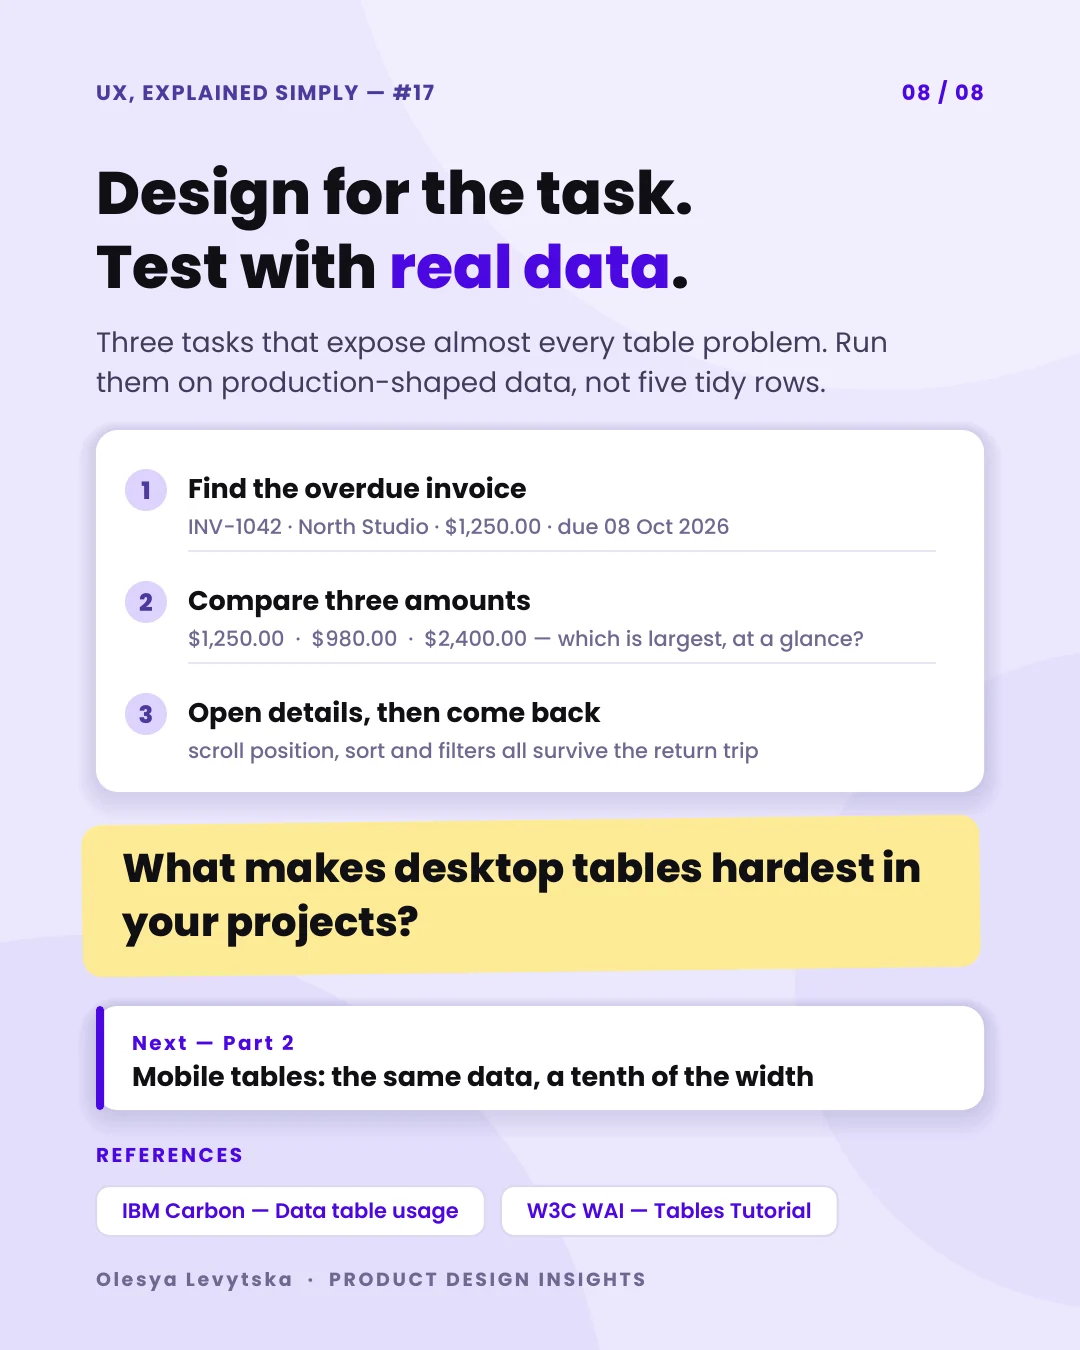
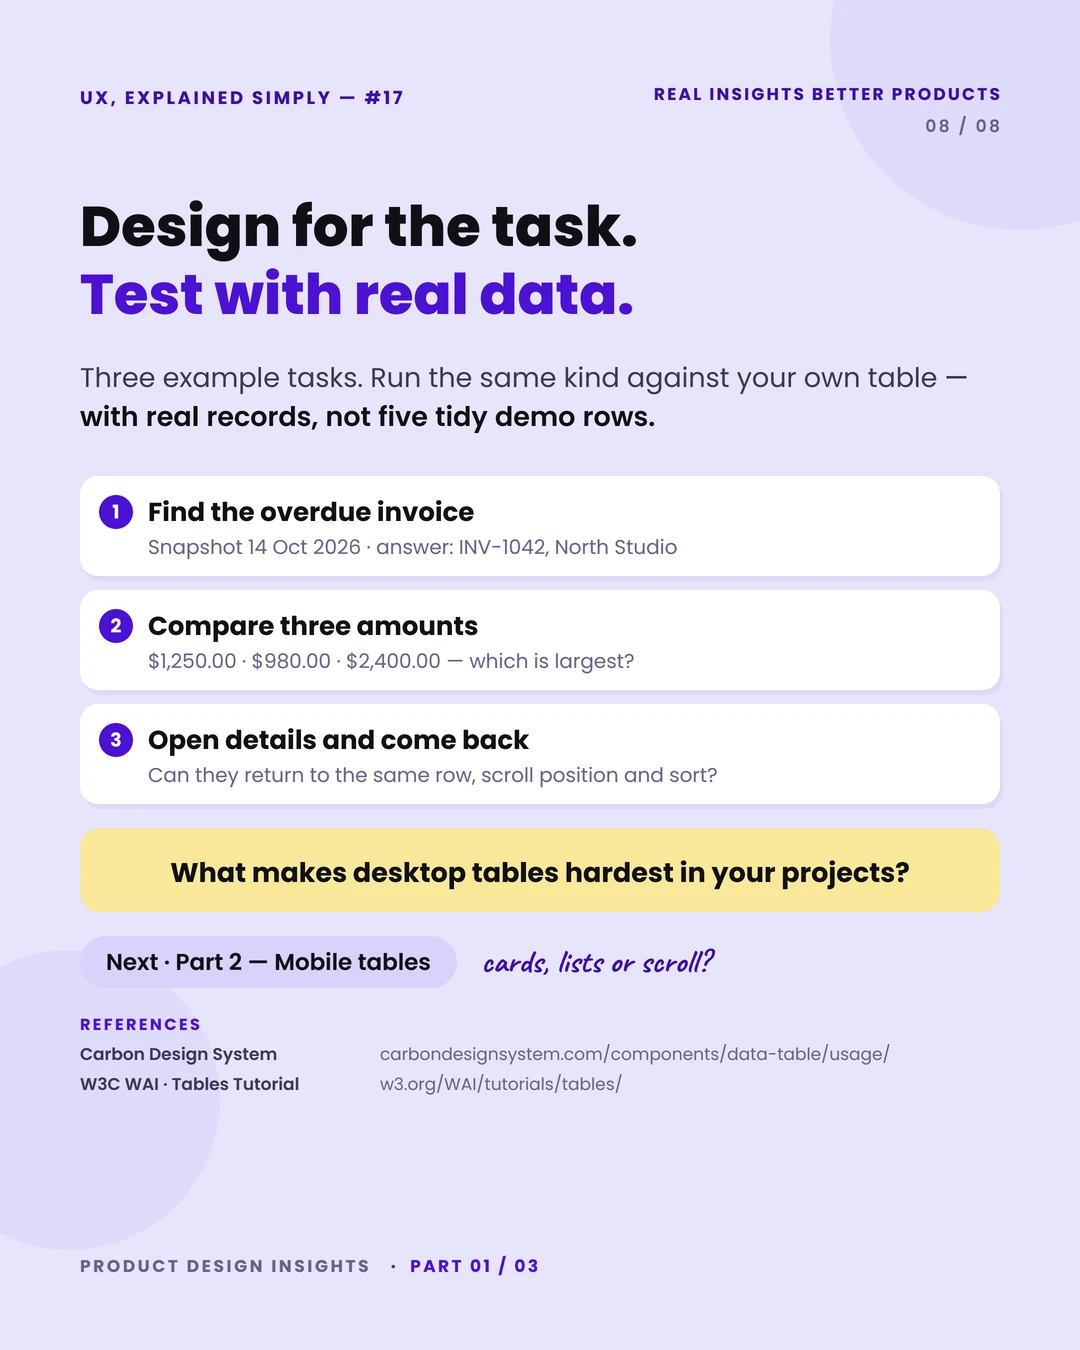
Insights #17: corrected carousel and LinkedIn post link
Replace the eight UX17 slides with the corrected Part 1 export: clean
cover, ID kept as row identifier, accurate pagination/virtualisation
copy, contrast added to the accessibility checks, PART 01 / 03 footer.
Point "View on LinkedIn" at the published post and cache-bust the
slide URLs so returning visitors get the new images.

Claude-Session: https://claude.ai/code/session_01CKfTMgapYxwNJYe8Mg29vh

Changed region(s): [[0.0611, 0.1244, 0.9472, 0.9644], [0.6111, 0.0622, 0.9472, 0.0933], [0.0611, 0.0622, 0.3972, 0.0933]]

diff --git a/docs/index.html b/docs/index.html
@@ -107,7 +107,7 @@
 <section class="section ux">
 <div class="section-head"><div><p class="eyebrow">03 / UX, EXPLAINED SIMPLY</p><h2>Professional insights, curated.</h2><p>Short practical notes and carousel posts about accessibility, product decisions, analytics, and research.</p></div><a class="text-link" href="insights.html">View all insights ↗</a></div>
 <div class="insight-grid">
-<article class="ux-card ux-card-with-image insight-carousel-card"><button class="carousel-preview" type="button" data-insight-carousel data-carousel-title="Too much data. Where do I look?" data-carousel-link="https://lnkd.in/p/dbJZJQE4" data-carousel-slides="images/insights/UX17-4x5-1.webp,images/insights/UX17-4x5-2.webp,images/insights/UX17-4x5-3.webp,images/insights/UX17-4x5-4.webp,images/insights/UX17-4x5-5.webp,images/insights/UX17-4x5-6.webp,images/insights/UX17-4x5-7.webp,images/insights/UX17-4x5-8.webp" aria-label="Open Too much data. Where do I look? carousel"><img class="article-cover carousel-cover" src="images/insights/UX17-4x5-1.webp" width="1080" height="1350" alt="First slide of Too much data. Where do I look? carousel" decoding="async" loading="lazy"><span>Open carousel ↗</span></button><div class="card-meta"><span>Data Tables</span><span>Carousel</span></div><h3>Too much data. Where do I look?</h3><p>UX, Explained Simply #17 — Part 1 of 3 on desktop tables: which four fields earn the default view, sticky headers and an identifying column, what question each control actually answers, pagination versus virtualization, and six accessibility checks a static mockup cannot prove.</p></article>
+<article class="ux-card ux-card-with-image insight-carousel-card"><button class="carousel-preview" type="button" data-insight-carousel data-carousel-title="Too much data. Where do I look?" data-carousel-link="https://www.linkedin.com/feed/update/urn:li:ugcPost:7517991751970791425/" data-carousel-slides="images/insights/UX17-4x5-1.webp?v=2,images/insights/UX17-4x5-2.webp?v=2,images/insights/UX17-4x5-3.webp?v=2,images/insights/UX17-4x5-4.webp?v=2,images/insights/UX17-4x5-5.webp?v=2,images/insights/UX17-4x5-6.webp?v=2,images/insights/UX17-4x5-7.webp?v=2,images/insights/UX17-4x5-8.webp?v=2" aria-label="Open Too much data. Where do I look? carousel"><img class="article-cover carousel-cover" src="images/insights/UX17-4x5-1.webp?v=2" width="1080" height="1350" alt="First slide of Too much data. Where do I look? carousel" decoding="async" loading="lazy"><span>Open carousel ↗</span></button><div class="card-meta"><span>Data Tables</span><span>Carousel</span></div><h3>Too much data. Where do I look?</h3><p>UX, Explained Simply #17 — Part 1 of 3 on desktop tables: which four fields earn the default view, sticky headers and an identifying column, what question each control actually answers, pagination versus virtualization, and six accessibility checks a static mockup cannot prove.</p></article>
 <article class="ux-card ux-card-with-image insight-carousel-card"><button class="carousel-preview" type="button" data-insight-carousel data-carousel-title="Animation and the pause button" data-carousel-link="https://www.linkedin.com/in/olesya-levytska-321363193/" data-carousel-slides="images/insights/animation-pause-1-sharp.webp,images/insights/animation-pause-2.webp,images/insights/animation-pause-3.webp,images/insights/animation-pause-4.webp,images/insights/animation-pause-5.webp,images/insights/animation-pause-6.webp,images/insights/animation-pause-7.webp,images/insights/animation-pause-8.webp" aria-label="Open Animation and the pause button carousel"><img class="article-cover carousel-cover" src="images/insights/animation-pause-1-sharp.webp" width="1122" height="1402" alt="First slide of Animation and the pause button carousel" decoding="async" loading="lazy"><span>Open carousel ↗</span></button><div class="card-meta"><span>Accessibility</span><span>Carousel</span></div><h3>Wait… my animation needs a PAUSE button? 👀</h3><p>UX, Explained Simply #16 — the five-second rule in SC 2.2.2, what must pass versus what is guidance, where WCAG is actually the law, and ways to handle an infinite marquee — including a scroll-linked alternative that moves only while you scroll and stops when you stop.</p></article>
 <article class="ux-card ux-card-with-image insight-carousel-card"><button class="carousel-preview" type="button" data-insight-carousel data-carousel-title="Test UX assumptions" data-carousel-link="https://www.linkedin.com/in/olesya-levytska-321363193/" data-carousel-slides="images/insights/ux-assumptions-14-1.webp,images/insights/ux-assumptions-14-2.webp,images/insights/ux-assumptions-14-3.webp,images/insights/ux-assumptions-14-4.webp,images/insights/ux-assumptions-14-5.webp,images/insights/ux-assumptions-14-6.webp" aria-label="Open Test UX assumptions carousel"><img class="article-cover carousel-cover" src="images/insights/ux-assumptions-14-1.webp" width="1080" height="1350" alt="First slide of Test UX assumptions carousel" decoding="async" loading="lazy"><span>Open carousel ↗</span></button><div class="card-meta"><span>UX Research</span><span>Carousel</span></div><h3>“I think users will click here.” Cool. Prove it. 👀</h3><p>UX, Explained Simply #14 — test assumptions at every stage: one screen, clickable prototype, AI-built prototype, and live product analytics.</p></article>
 </div>
